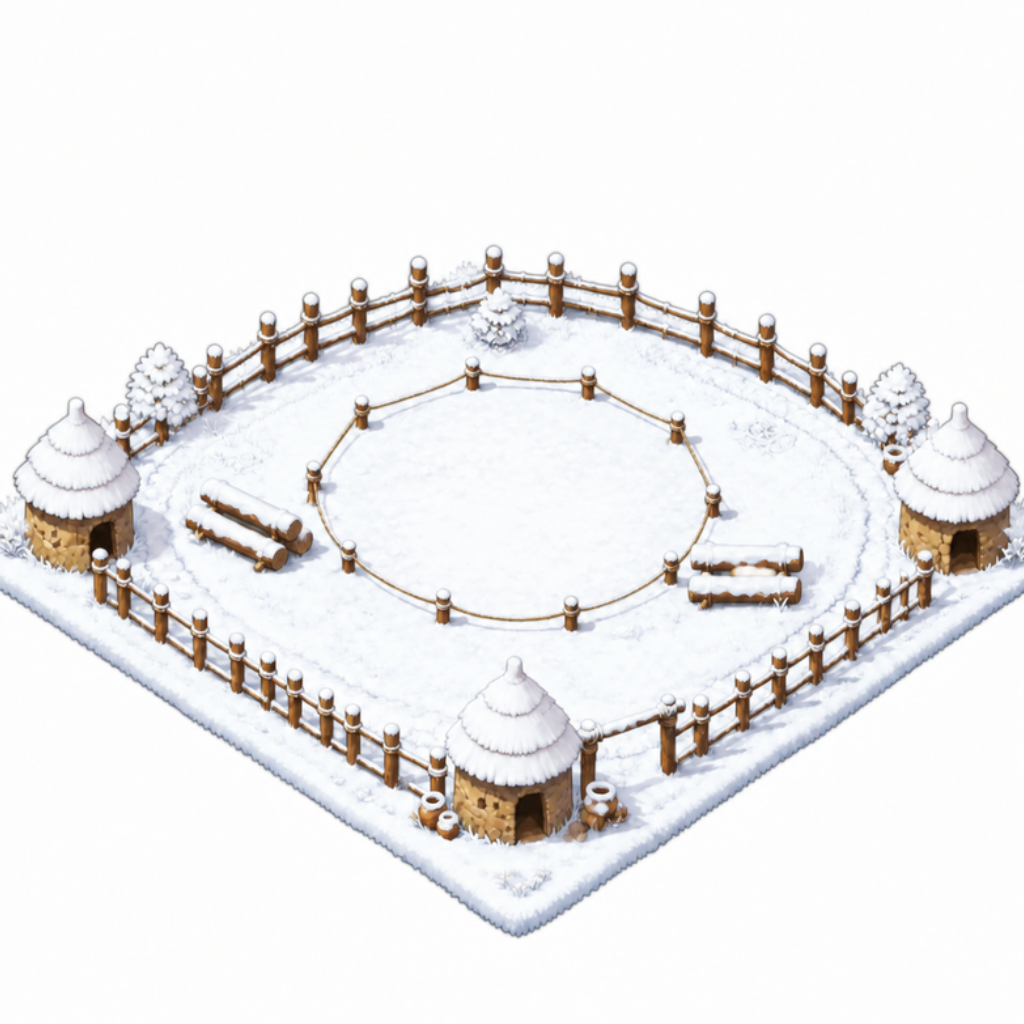
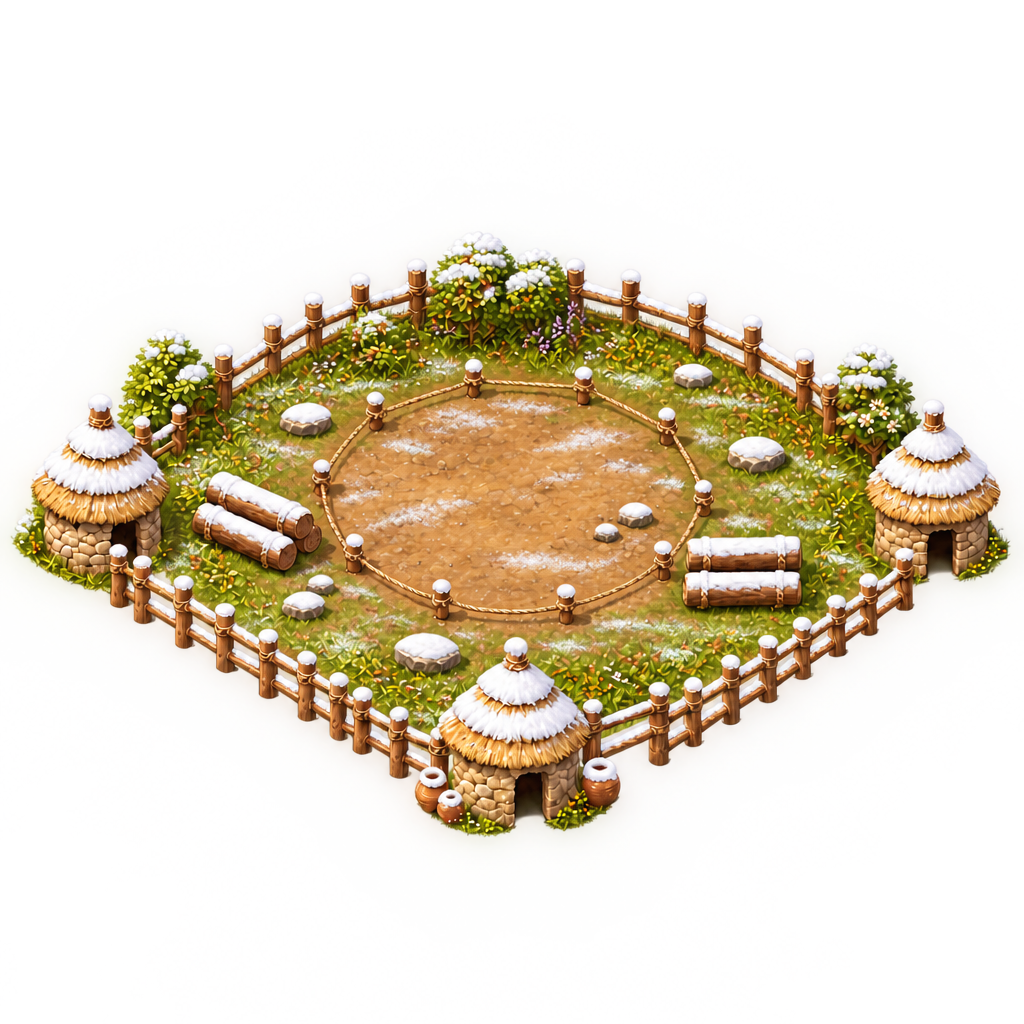
V242: Steinkreis-Bauphasen ohne Sockel im neuen Stil
Claude-Session: https://claude.ai/code/session_01W1n1hf4HzmNEgHroYYEZqd

diff --git a/neu/js/zeichnen.js b/neu/js/zeichnen.js
@@ -53,7 +53,7 @@ const images = {};
 const NO_PLATE = /^(f-|ware-|fund-|mensch-|fischer-|einbaum|hirsch|mammut|ziege|esel|baum-|berg-|fels-|huegel-|blumen|busch|wiese|schneewiese|sand|wasser|pfad|setzling)/;
 // Scenario-Bilder ohne Sockel (V240, Wunsch Emin 20.11.2026): keine Grasplatte im Bild, das Gebäude steht direkt auf dem
 // Boden. Die Unterkante (Zaun, Steine) gibt die Raute vor – nichts abschneiden, keine Plattendicke.
-const FLAT_IMAGES = /^1-(acker|ahnenplatz|fellmacherin|fellzelt|feuerplatz|grubenhaus|hoehlenmaler|holzsammler|jaegerlager|lagerfeuer|langhaus|mammutjaegerlager|pfahlbau|pflanzerin|sammlerin|steinkreis|steinsammler|steinschlaeger|toepferei|tongrube|vorratsspeicher|wohnhoehle|ziegengehege)(-r[12])?(-winter)?$/;
+const FLAT_IMAGES = /^1-(acker|ahnenplatz|fellmacherin|fellzelt|feuerplatz|grubenhaus|hoehlenmaler|holzsammler|jaegerlager|lagerfeuer|langhaus|mammutjaegerlager|pfahlbau|pflanzerin|sammlerin|steinkreis(?:-bau|-halb)?|steinsammler|steinschlaeger|toepferei|tongrube|vorratsspeicher|wohnhoehle|ziegengehege)(-r[12])?(-winter)?$/;
 function plateFor(name, img) {
   if (NO_PLATE.test(name)) return null;
   if (FLAT_IMAGES.test(name)) return flatPlate(img);

diff --git a/neu/index.html b/neu/index.html
@@ -3,7 +3,7 @@
 <head>
   <meta charset="UTF-8">
   <meta name="viewport" content="width=device-width, initial-scale=1, maximum-scale=1, user-scalable=no, viewport-fit=cover">
-  <meta name="app-version" content="241">
+  <meta name="app-version" content="242">
   <meta name="theme-color" content="#3d7a2a">
   <meta name="color-scheme" content="only light">
   <meta name="apple-mobile-web-app-capable" content="yes">

diff --git a/neu/js/daten.js b/neu/js/daten.js
@@ -2,7 +2,7 @@
 // Epochia – alle Spieldaten (Zahlen zum Feinjustieren stehen hier oben, die Logik liest nur daraus).
 // Pläne: docs/konzept-neu.md und docs/epoche-1-steinzeit.md
 
-const APP_VERSION = 241;
+const APP_VERSION = 242;
 
 const CONFIG = {
   mapSize: 512,           // Felder je Seite, zentral änderbar (Vielfaches von 16; 64 bis Version 21, 128 bis Version 54 – alte Karten liegen in der Mitte)

diff --git a/neu/service-worker.js b/neu/service-worker.js
@@ -1,6 +1,6 @@
 // Epochia – offline spielen. Bei Änderungen die Versionsnummer erhöhen (gleiche Nummer wie
 // APP_VERSION in js/daten.js und <meta name="app-version"> in index.html).
-const CACHE = 'v241';
+const CACHE = 'v242';
 const ASSETS = [
   './',
   'index.html',

diff --git a/neu/tools/scenario-einbauen.py b/neu/tools/scenario-einbauen.py
@@ -52,9 +52,10 @@ def schleier_anteil(im):
             if 0 < a < 250 and hell_grau(r, g, b): halb += 1
     return halb / max(1, deckend)
 
-def bearbeiten(im, name, box=None):
+def bearbeiten(im, name, box=None, umriss=None):
     im = im.convert('RGBA'); w, h = im.size; px = im.load()
-    schleier = schleier_anteil(im) > 0.12
+    # Schnee ist hell und kaum farbig wie Dunst: bei Winterbildern (sie entstehen aus dem bereinigten Sommerbild) nicht filtern
+    schleier = not name.endswith('-winter') and schleier_anteil(im) > 0.12
     kasten = RAUCH.get(name) or RAUCH.get(name.replace('-winter', ''))
     mask = Image.new('L', (w, h)); m = mask.load()
     for y in range(h):
@@ -65,7 +66,11 @@ def bearbeiten(im, name, box=None):
             if not weg and kasten and kasten[0] * w <= x <= kasten[1] * w and kasten[2] * h <= y <= kasten[3] * h and hell_grau(r, g, b): weg = True
             m[x, y] = 0 if weg else a
     weich = mask.filter(ImageFilter.GaussianBlur(0.8)).point(lambda v: min(255, v + 30))
-    im.putalpha(ImageChops.darker(mask, weich))
+    alpha = ImageChops.darker(mask, weich)
+    if umriss is not None and umriss.size == alpha.size:   # Winterbild: nur innerhalb des (etwas erweiterten) Sommer-Umrisses
+        alpha = ImageChops.darker(alpha, umriss.filter(ImageFilter.MaxFilter(7)).filter(ImageFilter.GaussianBlur(1)))
+    im.putalpha(alpha)
+    umriss_voll = alpha
     if box is None:   # sonst (Winterbild) derselbe Ausschnitt wie im Sommer, damit Feuer und Rauch (EFFECTS) passen
         b = im.getchannel('A').point(lambda v: 255 if v > 16 else 0).getbbox()
         box = (max(0, b[0] - 4), max(0, b[1] - 4), min(w, b[2] + 4), min(h, b[3] + 4))
@@ -74,21 +79,23 @@ def bearbeiten(im, name, box=None):
         im = im.resize((640, round(im.height * 640 / im.width)), Image.LANCZOS)
     if name.split('-')[0] in WASSER: wasser_angleichen(im)
     im.box = box
+    im.umriss = umriss_voll
     return im, schleier
 
 def main():
     ordner, nur = sys.argv[1], set(sys.argv[2:])
     for datei in sorted(os.listdir(ordner)):
-        mt = re.fullmatch(r'([a-z]+)((?:-r[12])?(?:-winter)?)\.png', datei)
+        mt = re.fullmatch(r'([a-z]+)((?:-bau|-halb)?(?:-r[12])?(?:-winter)?)\.png', datei)
         if not mt: continue
         basis, rest = mt.groups()
         if nur and basis not in nur and basis + rest not in nur: continue
         name = f'1-{basis}{rest}'
-        box = None
+        box = umriss = None
         sommer = os.path.join(ordner, basis + rest.replace('-winter', '') + '.png')
         if rest.endswith('-winter') and os.path.exists(sommer):
-            box = bearbeiten(Image.open(sommer), basis + rest.replace('-winter', ''))[0].box
-        im, schleier = bearbeiten(Image.open(os.path.join(ordner, datei)), basis + rest, box)
+            s_im = bearbeiten(Image.open(sommer), basis + rest.replace('-winter', ''))[0]
+            box, umriss = s_im.box, s_im.umriss
+        im, schleier = bearbeiten(Image.open(os.path.join(ordner, datei)), basis + rest, box, umriss)
         os.makedirs(os.path.join(OUT, basis), exist_ok=True)
         os.makedirs(os.path.join(SRC, basis), exist_ok=True)
         im.save(os.path.join(OUT, basis, name + '.webp'), quality=82, method=6)

diff --git a/docs/wuensche.md b/docs/wuensche.md
@@ -27,6 +27,7 @@ Stichworte reichen, z. B. „- Farm zeigt falsche Arbeiterzahl nach dem Verschie
 
 ## Erledigt
 
+- 20.11.2026, V242: Steinkreis-Bauphasen (Bauplatz und halb fertig) ohne Sockel im neuen Stil, mit Winterbildern.
 - 20.11.2026, V241: Tongrube mit neuem Bild ohne Sockel (drei Ansichten plus Winter), die Wasserseite in der Farbe des Flusses.
 - 20.11.2026, V240: Neue Steinzeit-Bilder aus Scenario ohne Sockel (22 Gebäude, Vorder- und Rückansicht, Sommer und Winter mit Sommerfarben und Schnee); 12 Arbeitsplätze mit Zaun und Tor, das Tor dreht sich beim Bauen zum Weg. Tongrube behält vorerst ihr altes Bild (steht halb im Wasser, neues Bild mit Wasser folgt).
 - 20.11.2026, V239: Gebäude ohne Erdsockel – liegen flach auf dem Boden. Tor-Logik vorbereitet (Gebäude mit Zaun drehen das Tor zum Weg, Arbeiter gehen durchs Tor); neue Scenario-Bilder mit Zaun folgen.
